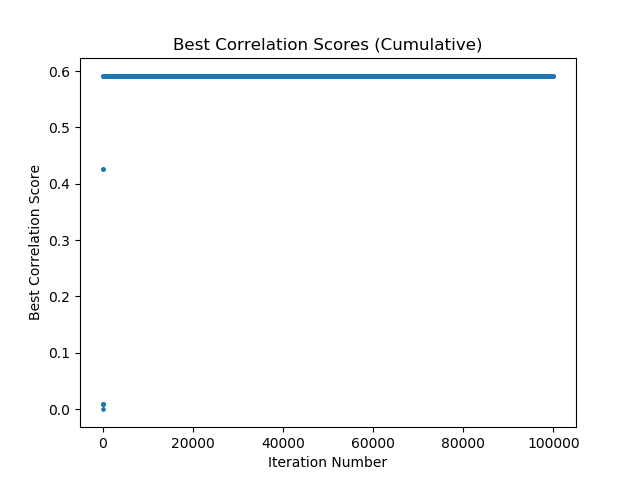
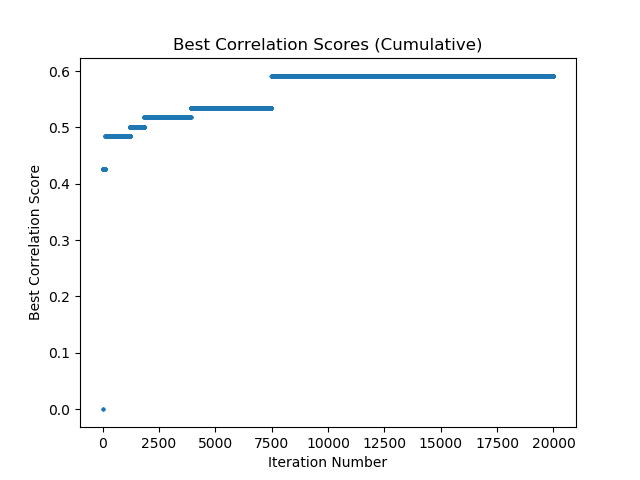
random tests and good plots

diff --git a/pcfg.py b/pcfg.py
@@ -13,7 +13,7 @@ from numpy import exp
 import matplotlib.pyplot as plt
 
 PUNCTUATION_LIST = ['.',',','?','$','!',"'",'"',':',';','-', ')', '(', '``', '\'\'']
-NUM_ITERS = 100000
+NUM_ITERS = 20000
 CORRELATION_WEIGHT = .7
 LENGTH_WEIGHT = 1 - CORRELATION_WEIGHT
 OPTIMAL_SENTENCE_LENGTH = 10
@@ -435,7 +435,7 @@ def runRLAlgorithm(grammar, listings, keywords, expNum, outputFile) :
 
     if expNum == 0:
         plt.figure()
-        plt.scatter(range(1, 20000), bestOverTime[0:20000], s=3)
+        plt.scatter(range(1, NUM_ITERS+1), bestOverTime, s=3)
         plt.title("Best Correlation Scores (Cumulative)")
         plt.xlabel("Iteration Number")
         plt.ylabel("Best Correlation Score")
